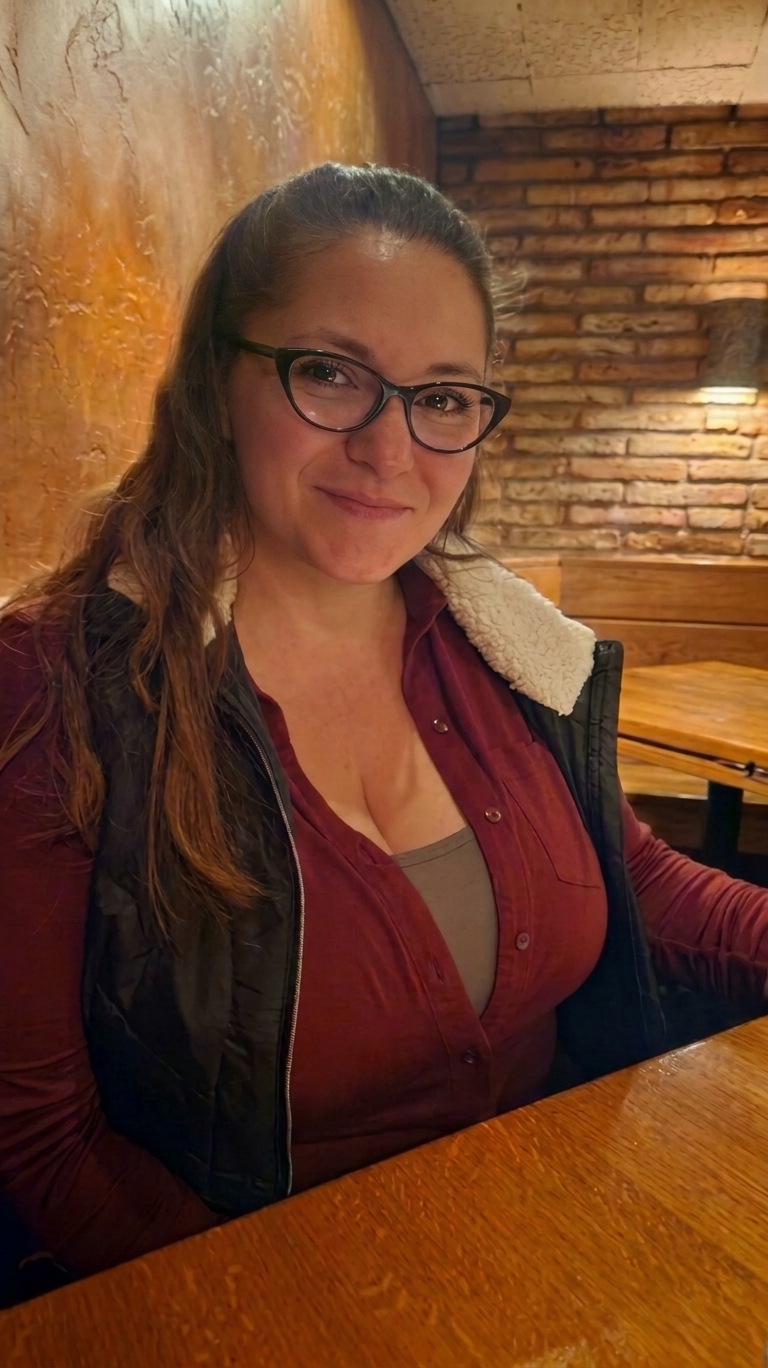
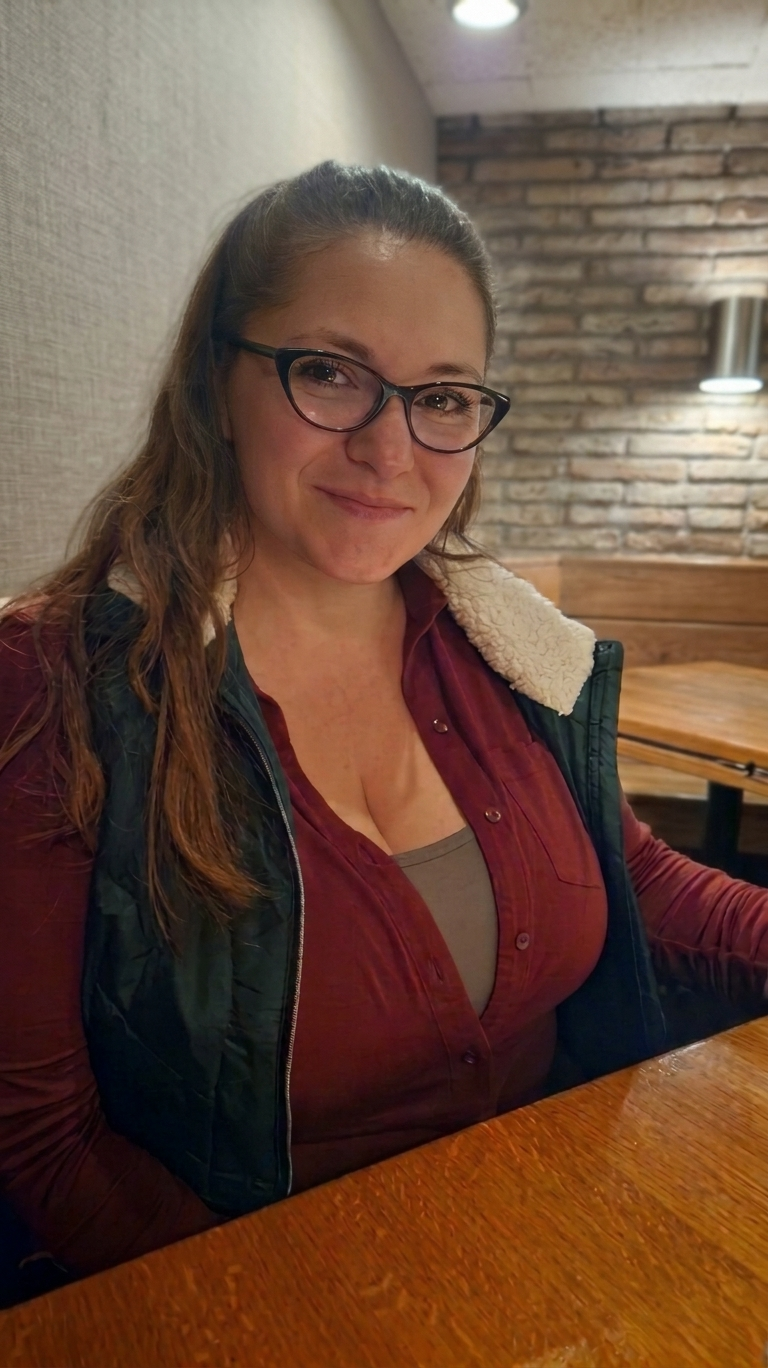
Team wording, FAQ updates, new photo of Stacy

diff --git a/index.html b/index.html
@@ -4,7 +4,7 @@
 <meta charset="utf-8">
 <meta name="viewport" content="width=device-width, initial-scale=1">
 <title>G Street Accounting | Tax Preparation &amp; Bookkeeping in Avilla, Indiana</title>
-<meta name="description" content="Tax preparation and year-round bookkeeping in Avilla, Indiana. Personal returns from $85. Sit down with Stacy, drop off and go, or send documents securely. Serving Noble, DeKalb and Allen counties.">
+<meta name="description" content="Tax preparation and year-round bookkeeping in Avilla, Indiana. Personal returns from $85. A local team led by owner Stacy, with in-person visits, drop-off and secure electronic submission. Serving Noble, DeKalb and Allen counties.">
 <link rel="canonical" href="https://taxes.gstreetportal.com/">
 <meta property="og:type" content="website">
 <meta property="og:title" content="G Street Accounting | Taxes &amp; Bookkeeping in Avilla, IN">
@@ -382,7 +382,7 @@ footer .legal{border-top:1px solid rgba(255,255,255,.1);margin-top:44px;padding-
     <div>
       <span class="pill"><i></i><span id="season-pill">Now booking the 2027 tax season</span></span>
       <h1>Taxes done right.<br>Books kept <em class="accent">right here.</em></h1>
-      <p class="lede">G Street Accounting is Stacy's tax and bookkeeping office on Main Street in Avilla. Families and small businesses get a person who knows them by name, prices quoted up front, and help that doesn't end on April 15.</p>
+      <p class="lede">G Street Accounting is Stacy's tax and bookkeeping office on Main Street in Avilla. Our small local team gives families and small businesses people who know them by name, prices quoted up front, and help that doesn't end on April 15.</p>
       <div class="ctas">
         <a class="btn btn-primary" href="#contact">Start My Return →</a>
         <a class="btn btn-ghost" href="#bookkeeping">Bookkeeping Help</a>
@@ -396,14 +396,14 @@ footer .legal{border-top:1px solid rgba(255,255,255,.1);margin-top:44px;padding-
 
     <div class="desk" aria-hidden="true">
       <div class="card main">
-        <div class="head"><b>Your return, in progress</b><span>Stacy's desk</span></div>
+        <div class="head"><b>Your return, in progress</b><span>Avilla office</span></div>
         <ul class="docs" id="docs">
           <li><i class="box"></i>Photo ID &amp; Social Security cards<small>Everyone on the return</small></li>
           <li><i class="box"></i>W-2s from every job</li>
           <li><i class="box"></i>1099s &amp; 1098s</li>
           <li><i class="box"></i>Last year's return<small>New clients</small></li>
           <li><i class="box"></i>Childcare &amp; tuition receipts</li>
-          <li><i class="box"></i>Review with Stacy &amp; e-file</li>
+          <li><i class="box"></i>Final review &amp; e-file</li>
         </ul>
         <div class="meter"><i id="meter"></i></div>
         <div class="foot"><span id="docs-status">Gathering documents…</span><strong id="docs-done"></strong></div>
@@ -425,9 +425,9 @@ footer .legal{border-top:1px solid rgba(255,255,255,.1);margin-top:44px;padding-
     </div>
     <div class="reveal">
       <span class="eyebrow">Meet Stacy</span>
-      <h2>The person doing your taxes is <em class="accent">the person you'll talk to.</em></h2>
-      <blockquote>“I want you to walk out understanding your return, not just signing it. And if a letter shows up from the IRS in July, you call me. That's how it should work in a small town.”</blockquote>
-      <p>Stacy has spent years preparing returns and keeping books for the households and small businesses around Avilla. No seasonal pop-up, no rotating preparer, no call center. Just one office on Main Street that keeps your file, remembers last year, and picks up the phone.</p>
+      <h2>A small team that knows your name, <em class="accent">led by Stacy.</em></h2>
+      <blockquote>“I want you to walk out understanding your return, not just signing it. And if a letter shows up from the IRS in July, you call us. That's how it should work in a small town.”</blockquote>
+      <p>Stacy has spent years preparing returns and keeping books for the households and small businesses around Avilla. Today she leads a small team of preparers and bookkeepers and keeps a close eye on the work that leaves our office. No seasonal pop-up and no call center. Just one office on Main Street that keeps your file, remembers last year, and picks up the phone.</p>
       <div class="promises">
         <div><b>Price before we start</b><p>You'll know the cost before any work begins. No surprise add-ons at pickup.</p></div>
         <div><b>Plain-English answers</b><p>What changed, why your refund moved, what to do differently next year.</p></div>
@@ -443,13 +443,13 @@ footer .legal{border-top:1px solid rgba(255,255,255,.1);margin-top:44px;padding-
     <div class="sec-head">
       <span class="eyebrow">Tax preparation</span>
       <h2>Four easy ways to get your taxes <em class="accent">off your plate.</em></h2>
-      <p class="lede">Busy season or not, pick whatever fits your week. Every return gets the same review by Stacy before it's filed.</p>
+      <p class="lede">Busy season or not, pick whatever fits your week. Every return gets a careful review before it's filed.</p>
     </div>
     <div class="ways">
       <div class="way reveal">
         <div class="ico"><svg viewBox="0 0 24 24" fill="none" stroke="currentColor" stroke-width="1.8" stroke-linecap="round" stroke-linejoin="round"><circle cx="9" cy="8" r="3.2"/><path d="M3.5 19c.6-3 2.8-4.8 5.5-4.8s4.9 1.8 5.5 4.8"/><path d="M15.5 5.5a3 3 0 0 1 0 5.6M18 14.6c1.5.7 2.4 2.2 2.6 4.4"/></svg></div>
-        <h3>Sit down with Stacy</h3>
-        <p>Bring your paperwork, grab a chair and walk through it together. Best for first-timers and anyone with changes this year.</p>
+        <h3>Sit down with us</h3>
+        <p>Bring your paperwork, grab a chair and walk through it with one of our team. Every new client starts here.</p>
       </div>
       <div class="way reveal">
         <div class="ico"><svg viewBox="0 0 24 24" fill="none" stroke="currentColor" stroke-width="1.8" stroke-linecap="round" stroke-linejoin="round"><path d="M4 9h16v10a1 1 0 0 1-1 1H5a1 1 0 0 1-1-1V9Z"/><path d="M3 5h18v4H3zM10 13h4"/></svg></div>
@@ -459,7 +459,7 @@ footer .legal{border-top:1px solid rgba(255,255,255,.1);margin-top:44px;padding-
       <div class="way reveal">
         <div class="ico"><svg viewBox="0 0 24 24" fill="none" stroke="currentColor" stroke-width="1.8" stroke-linecap="round" stroke-linejoin="round"><rect x="5" y="10" width="14" height="10" rx="2"/><path d="M8 10V7a4 4 0 0 1 8 0v3M12 14v2.5"/></svg></div>
         <h3>Send it securely</h3>
-        <p>Can't make it in? Request a secure upload link and send photos or PDFs from your phone. Sign electronically when it's done.</p>
+        <p>Already a client? Send your paperwork to us securely and electronically, right from your phone. Sign electronically when it's done.</p>
       </div>
       <div class="way reveal">
         <div class="ico"><svg viewBox="0 0 24 24" fill="none" stroke="currentColor" stroke-width="1.8" stroke-linecap="round" stroke-linejoin="round"><path d="M4 6h16v12H4z"/><path d="m4 7 8 6 8-6"/></svg></div>
@@ -490,7 +490,7 @@ footer .legal{border-top:1px solid rgba(255,255,255,.1);margin-top:44px;padding-
     <div>
       <span class="eyebrow">Bookkeeping, all year</span>
       <h2>Books that are done every month, <em class="accent">not every April.</em></h2>
-      <p style="margin-top:16px;max-width:560px">Shoebox receipts and a bank app aren't a bookkeeping system. Stacy keeps your books current every month, so you always know where the business stands and tax time takes an afternoon instead of a weekend.</p>
+      <p style="margin-top:16px;max-width:560px">Shoebox receipts and a bank app aren't a bookkeeping system. Our bookkeepers keep your books current every month under the watch of Stacy, a Certified QuickBooks ProAdvisor, so you always know where the business stands and tax time takes an afternoon instead of a weekend.</p>
       <div class="bk-list">
         <div><span class="ico"><svg viewBox="0 0 24 24" fill="none" stroke="currentColor" stroke-width="1.8" stroke-linecap="round" stroke-linejoin="round"><path d="M4 20V10M10 20V4M16 20v-7M22 20H2"/></svg></span><span><b>Monthly reconciliation &amp; reports</b><p>Bank and card accounts matched to the penny, with a profit &amp; loss and balance sheet you can actually read.</p></span></div>
         <div><span class="ico"><svg viewBox="0 0 24 24" fill="none" stroke="currentColor" stroke-width="1.8" stroke-linecap="round" stroke-linejoin="round"><path d="M3 12a9 9 0 1 0 3-6.7L3 8"/><path d="M3 3v5h5M12 7v5l3 2"/></svg></span><span><b>Catch-up &amp; cleanup</b><p>Months (or years) behind? We'll rebuild the books so you can file, apply for a loan or just sleep better.</p></span></div>
@@ -524,9 +524,9 @@ footer .legal{border-top:1px solid rgba(255,255,255,.1);margin-top:44px;padding-
         <small>Our suggestion</small>
         <b id="plan-name">Essentials</b>
         <p id="plan-why">Monthly reconciliation and reports for a lighter-volume business.</p>
-        <div class="est" id="plan-est">Stacy will send you an exact monthly quote.</div>
+        <div class="est" id="plan-est">We'll send you an exact monthly quote.</div>
       </div>
-      <a class="btn btn-primary" href="#contact" id="finder-cta" style="margin-top:18px;width:100%;justify-content:center">Ask Stacy about this plan</a>
+      <a class="btn btn-primary" href="#contact" id="finder-cta" style="margin-top:18px;width:100%;justify-content:center">Ask about this plan</a>
     </div>
   </div>
 </section>
@@ -536,7 +536,7 @@ footer .legal{border-top:1px solid rgba(255,255,255,.1);margin-top:44px;padding-
     <div class="sec-head">
       <span class="eyebrow">Upfront pricing</span>
       <h2>Know what it costs <em class="accent">before we start.</em></h2>
-      <p class="lede">Simple returns start at $85. For everything else, Stacy takes a quick look at your situation and gives you an exact quote before any work begins.</p>
+      <p class="lede">Simple returns start at $85. For everything else, we take a quick look at your situation and gives you an exact quote before any work begins.</p>
     </div>
     <div class="tabs" role="tablist" aria-label="Pricing type">
       <button role="tab" aria-selected="true" aria-controls="p-tax" id="t-tax">Tax returns</button>
@@ -586,13 +586,13 @@ footer .legal{border-top:1px solid rgba(255,255,255,.1);margin-top:44px;padding-
           <span class="tag">Most popular</span>
           <h3>Growing</h3><p class="who">Shops, contractors and service businesses.</p>
           <div class="amt quote"><span class="from">Monthly plan</span>Custom quote</div>
-          <ul><li>Up to ~200 transactions a month</li><li>Everything in Essentials</li><li>Indiana sales tax filing</li><li>Quarterly check-in with Stacy</li></ul>
+          <ul><li>Up to ~200 transactions a month</li><li>Everything in Essentials</li><li>Indiana sales tax filing</li><li>Quarterly check-in</li></ul>
           <a class="btn btn-primary" href="#contact" data-topic="Bookkeeping: Growing">Get started</a>
         </div>
         <div class="card price">
           <h3>Full-Service</h3><p class="who">Busy businesses with staff and lots of moving parts.</p>
           <div class="amt quote"><span class="from">Monthly plan</span>Custom quote</div>
-          <ul><li>Higher volume &amp; more accounts</li><li>Bills, invoicing &amp; collections</li><li>Budget &amp; cash-flow forecast</li><li>Monthly review with Stacy</li></ul>
+          <ul><li>Higher volume &amp; more accounts</li><li>Bills, invoicing &amp; collections</li><li>Budget &amp; cash-flow forecast</li><li>Monthly review meeting</li></ul>
           <a class="btn btn-ghost" href="#contact" data-topic="Bookkeeping: Full-Service">Get started</a>
         </div>
       </div>
@@ -646,8 +646,8 @@ footer .legal{border-top:1px solid rgba(255,255,255,.1);margin-top:44px;padding-
       <h2>Three steps. <em class="accent">No surprises.</em></h2>
     </div>
     <div class="steps">
-      <div class="card step reveal"><h3>Reach out</h3><p>Send a quick note below or stop by. Tell us what you need and how you'd like to work: in person, drop-off or secure upload.</p></div>
-      <div class="card step reveal"><h3>Get your quote</h3><p>Stacy looks over your situation and gives you the price up front. You decide before any work begins.</p></div>
+      <div class="card step reveal"><h3>Reach out</h3><p>Send a quick note below or stop by. New clients start with an in-person visit so we can get your file set up.</p></div>
+      <div class="card step reveal"><h3>Get your quote</h3><p>We look over your situation and give you the price up front. You decide before any work begins.</p></div>
       <div class="card step reveal"><h3>Review &amp; file</h3><p>We walk through the results in plain English, you sign, and it's filed. Questions later? You already know who to call.</p></div>
     </div>
   </div>
@@ -694,7 +694,7 @@ footer .legal{border-top:1px solid rgba(255,255,255,.1);margin-top:44px;padding-
     <div>
       <span class="eyebrow">Hometown office</span>
       <h2>On Main Street in Avilla, <em class="accent">serving the whole area.</em></h2>
-      <p class="lede" style="margin-top:16px">Clients come from all over Noble, DeKalb and Allen counties, and secure upload means distance is never a problem.</p>
+      <p class="lede" style="margin-top:16px">Clients come from all over Noble, DeKalb and Allen counties, and once you're set up, secure electronic submission makes distance a non-issue.</p>
       <div class="towns">
         <span class="home">Avilla</span><span>Kendallville</span><span>Albion</span><span>Rome City</span><span>Auburn</span><span>Garrett</span><span>Ligonier</span><span>Huntertown</span><span>Fort Wayne</span>
       </div>
@@ -721,13 +721,13 @@ footer .legal{border-top:1px solid rgba(255,255,255,.1);margin-top:44px;padding-
       <h2>Frequently asked</h2>
     </div>
     <div class="faq">
-      <details><summary>How much will my tax return cost?</summary><p>Simple returns start at $85 for federal and Indiana. More forms (kids, a home, self-employment, rentals) add to the price. Stacy quotes you up front after looking at your documents, so you'll know the cost before any work begins.</p></details>
-      <details><summary>Do I have to come in?</summary><p>No. You can sit down with Stacy, drop documents off at the office, or request a secure upload link and send everything from your phone. Many clients never come in at all.</p></details>
+      <details><summary>How much will my tax return cost?</summary><p>Simple returns start at $85 for federal and Indiana. More forms (kids, a home, self-employment, rentals) add to the price. We quote you up front after looking at your documents, so you'll know the cost before any work begins.</p></details>
+      <details><summary>Do I have to come in?</summary><p>For your first visit, yes. We like to meet you in person, go over your documents together and get your file set up. After that, you can send your paperwork to us securely and electronically, or drop it off at the office.</p></details>
       <details><summary>When should I schedule?</summary><p>As soon as you have your W-2s and 1099s, usually by early February. February and early April are the busiest weeks, so earlier is better. If you're waiting on a form, we can start and finish when it arrives.</p></details>
       <details><summary>What if I'm behind on filing, or got a letter from the IRS?</summary><p>It happens more than you'd think. We prepare prior-year and late returns, and we'll help you understand and respond to IRS and Indiana DOR notices. The sooner you bring it in, the more options you usually have.</p></details>
-      <details><summary>Why use a local bookkeeper instead of an app?</summary><p>An app records transactions; a bookkeeper makes sure they're right. Stacy reconciles your accounts, catches problems early and is the same person who prepares your return, so nothing gets lost between your books and your taxes.</p></details>
+      <details><summary>Why use a local bookkeeper instead of an app?</summary><p>An app records transactions; a bookkeeper makes sure they're right. Our team reconciles your accounts and catches problems early, and because the same office prepares your return, nothing gets lost between your books and your taxes.</p></details>
       <details><summary>Is there a contract for bookkeeping?</summary><p>No long-term contract. Plans are month to month. If you're behind, we'll start with a one-time catch-up so your books are current before monthly service begins.</p></details>
-      <details><summary>Do you work with QuickBooks?</summary><p>Yes. We can work in your existing QuickBooks file, clean it up, or set up a new one. If you're not using software yet, we'll recommend what fits your business and budget.</p></details>
+      <details><summary>Do you work with QuickBooks?</summary><p>Yes. Stacy is a Certified QuickBooks ProAdvisor, and we work in both QuickBooks Online and QuickBooks Desktop. We can work in your existing file, clean it up, or set up a new one. If you're not using software yet, we'll recommend what fits your business and budget.</p></details>
       <details><summary>Are you open after tax season?</summary><p>Yes. Tax season is our busiest time, but bookkeeping, payroll, extensions, amended returns and IRS letters keep us going all year. Off-season help is by appointment.</p></details>
     </div>
   </div>
@@ -738,7 +738,7 @@ footer .legal{border-top:1px solid rgba(255,255,255,.1);margin-top:44px;padding-
     <div class="side">
       <span class="eyebrow">Get started</span>
       <h2>Let's get you <em class="accent">taken care of.</em></h2>
-      <p class="lede">Tell us a little about what you need. Stacy will reach out, usually within one business day (a bit longer in the April rush).</p>
+      <p class="lede">Tell us a little about what you need. Someone from our team will reach out, usually within one business day (a bit longer in the April rush).</p>
       <ul>
         <li><span class="ico"><svg viewBox="0 0 24 24" fill="none" stroke="currentColor" stroke-width="1.8" stroke-linecap="round" stroke-linejoin="round"><path d="M12 21s-7-6.2-7-11.5A7 7 0 0 1 19 9.5C19 14.8 12 21 12 21Z"/><circle cx="12" cy="9.5" r="2.5"/></svg></span><span><b>Visit the office</b><span>142 S Main St, Avilla, IN 46710</span></span></li>
         <li><span class="ico"><svg viewBox="0 0 24 24" fill="none" stroke="currentColor" stroke-width="1.8" stroke-linecap="round" stroke-linejoin="round"><circle cx="12" cy="12" r="9"/><path d="M12 7v5l3 2"/></svg></span><span><b>Quick reply</b><span>Usually within one business day</span></span></li>
@@ -769,16 +769,16 @@ footer .legal{border-top:1px solid rgba(255,255,255,.1);margin-top:44px;padding-
         </div>
         <div class="f"><label for="f-how">I'd prefer to</label>
           <select id="f-how" name="preference">
-            <option>Sit down with Stacy</option>
+            <option>Meet in person</option>
             <option>Drop off documents</option>
-            <option>Send documents securely</option>
+            <option>Send documents electronically (existing clients)</option>
             <option>Not sure yet</option>
           </select>
         </div>
       </div>
       <div class="f"><label for="f-msg">Anything we should know?</label><textarea id="f-msg" name="message" placeholder="New client? Big changes this year? Number of employees? Best time to call?"></textarea></div>
       <div class="f hp" aria-hidden="true"><label for="f-web">Website</label><input id="f-web" name="website" tabindex="-1" autocomplete="off"></div>
-      <button class="btn btn-primary" type="submit" style="width:100%;justify-content:center">Send to Stacy</button>
+      <button class="btn btn-primary" type="submit" style="width:100%;justify-content:center">Send message</button>
       <p class="form-note">Please don't include Social Security numbers or tax documents in this form.</p>
       <div class="status" id="f-status" role="status"></div>
     </form>
@@ -853,7 +853,7 @@ footer .legal{border-top:1px solid rgba(255,255,255,.1);margin-top:44px;padding-
     const t = +tx.value, a = +acct.value, pay = $('#need-payroll').checked, sales = $('#need-sales').checked, bills = $('#need-bills').checked, behind = $('#need-behind').checked;
     $('#tx-out').textContent = t >= 400 ? '400+' : t; $('#acct-out').textContent = a >= 8 ? '8+' : a;
     let name = 'Essentials', base = 150, why = 'Monthly reconciliation and easy-to-read reports for a lighter-volume business.', topicV = 'Bookkeeping: Essentials';
-    if (t > 75 || a > 3 || sales) { name = 'Growing'; base = 275; why = 'More activity' + (sales ? ' plus Indiana sales tax filing' : '') + ', with a quarterly check-in with Stacy.'; topicV = 'Bookkeeping: Growing'; }
+    if (t > 75 || a > 3 || sales) { name = 'Growing'; base = 275; why = 'More activity' + (sales ? ' plus Indiana sales tax filing' : '') + ', with a quarterly check-in.'; topicV = 'Bookkeeping: Growing'; }
     if (t > 200 || a > 5 || bills) { name = 'Full-Service'; base = 425; why = 'Higher volume' + (bills ? ', bill pay and invoicing' : '') + ' and a monthly review to keep cash flow on track.'; topicV = 'Bookkeeping: Full-Service'; }
     let extra = [];
     if (pay) extra.push('payroll');
@@ -907,15 +907,15 @@ footer .legal{border-top:1px solid rgba(255,255,255,.1);margin-top:44px;padding-
     status.className = 'status';
     const data = Object.fromEntries(new FormData(form));
     if (data.website) return; // honeypot
-    if (!data.name.trim() || !/^\S+@\S+\.\S+$/.test(data.email)) { status.textContent = 'Please add your name and a valid email so Stacy can reach you.'; status.className = 'status err'; return; }
+    if (!data.name.trim() || !/^\S+@\S+\.\S+$/.test(data.email)) { status.textContent = 'Please add your name and a valid email so we can reach you.'; status.className = 'status err'; return; }
     const btn = form.querySelector('button[type=submit]'); btn.disabled = true; btn.textContent = 'Sending…';
     try {
       const r = await fetch(INQUIRY_URL, { method:'POST', headers:{'Content-Type':'application/json'}, body: JSON.stringify({...data, page: location.href}) });
       if (!r.ok) throw new Error('send failed');
-      form.reset(); status.textContent = 'Thanks! Your note is on its way to Stacy. Expect a reply within one business day.'; status.className = 'status ok';
+      form.reset(); status.textContent = 'Thanks! Your note is on its way to our team. Expect a reply within one business day.'; status.className = 'status ok';
     } catch (err) {
       status.textContent = 'Sorry, that didn’t go through. Please try again in a minute, or stop by 142 S Main St.'; status.className = 'status err';
-    } finally { btn.disabled = false; btn.textContent = 'Send to Stacy'; }
+    } finally { btn.disabled = false; btn.textContent = 'Send message'; }
   });
 })();
 </script>
